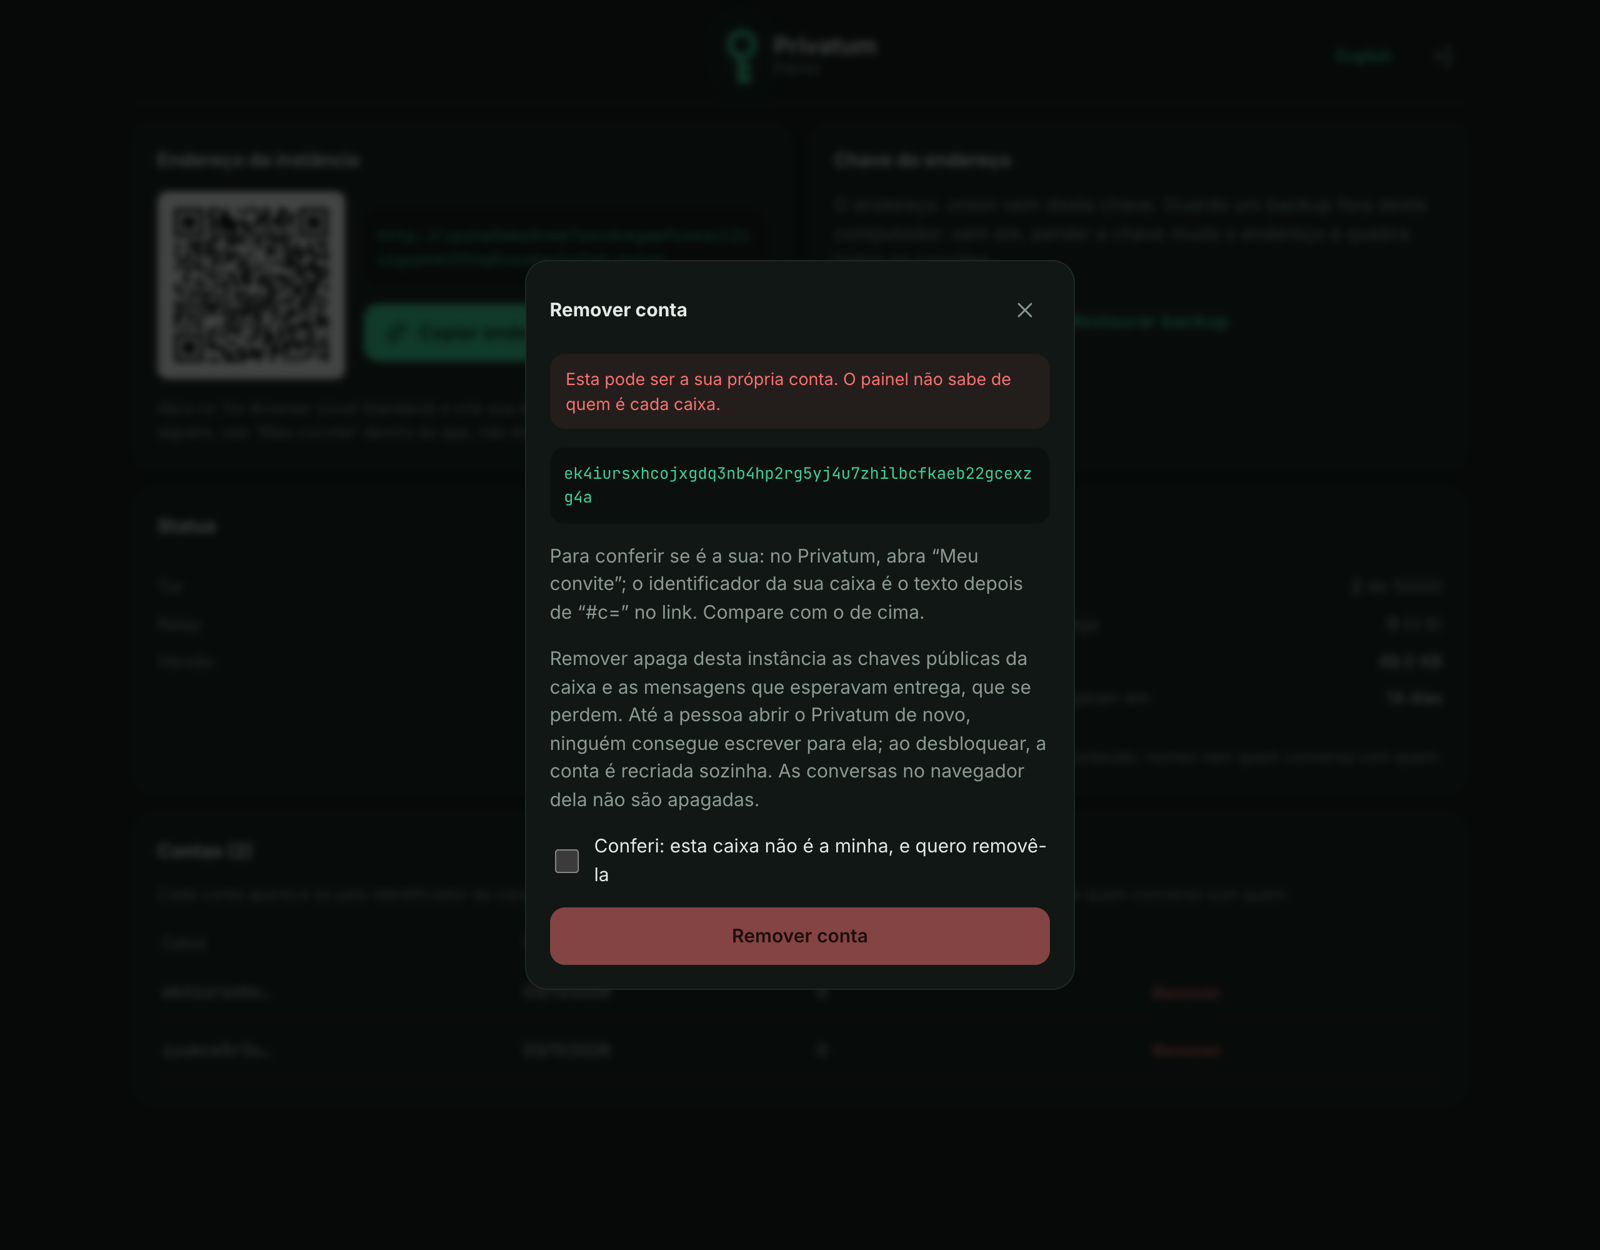
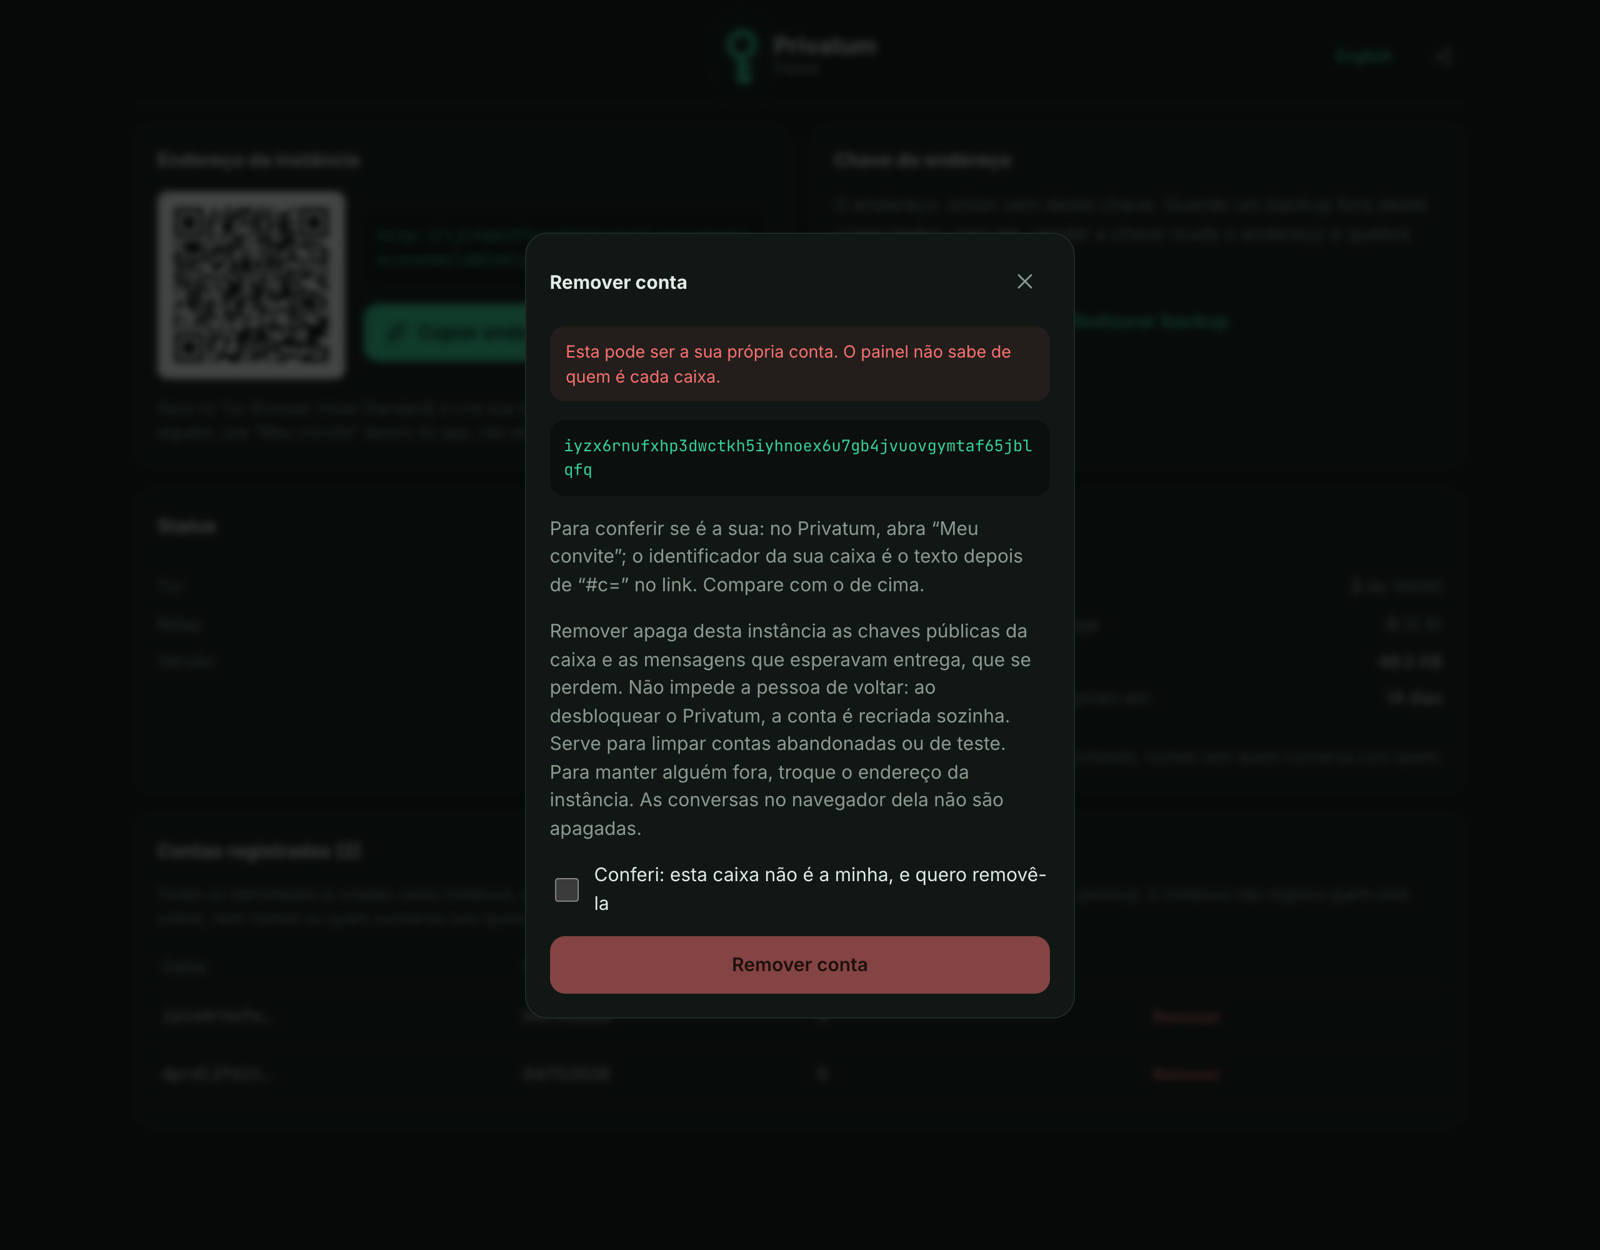
Painel: Contas registradas e aviso de que remover não barra ninguém
O quadro passa a se chamar Contas registradas e explica que mostra todas as
identidades já criadas, online ou não (a instância não registra quem está
online). A janela de remover deixa claro que a pessoa volta ao desbloquear o
Privatum e que, para manter alguém fora, o caminho é trocar o endereço.
Imagens e documentação atualizadas.

Changed region(s): [[0.3438, 0.2184, 0.6562, 0.8112]]

diff --git a/client/src/i18n-en.ts b/client/src/i18n-en.ts
@@ -253,8 +253,6 @@ export const EN: Record<string, string> = {
   'Para confirmar, digite TROCAR': 'To confirm, type TROCAR',
   'Trocando…': 'Changing…',
   'Apagar a chave e trocar o endereço': 'Delete the key and change the address',
-  'Contas ({n})': 'Accounts ({n})',
-  'Cada conta aparece só pelo identificador da caixa (o mesmo que vai no convite da pessoa). O painel não sabe nomes nem quem conversa com quem.': 'Each account shows only by its mailbox id (the same one in the person\'s invite). The panel knows no names nor who talks to whom.',
   'Caixa': 'Mailbox',
   'Criada': 'Created',
   'Aguardando': 'Waiting',
@@ -299,6 +297,8 @@ export const EN: Record<string, string> = {
   '{n} dias': '{n} days',
   'Esta pode ser a sua própria conta. O painel não sabe de quem é cada caixa.': 'This may be your own account. The panel does not know whose each mailbox is.',
   'Para conferir se é a sua: no Privatum, abra “Meu convite”; o identificador da sua caixa é o texto depois de “#c=” no link. Compare com o de cima.': 'To check whether it is yours: in Privatum, open “My invite”; your mailbox id is the text after “#c=” in the link. Compare it with the one above.',
-  'Remover apaga desta instância as chaves públicas da caixa e as mensagens que esperavam entrega, que se perdem. Até a pessoa abrir o Privatum de novo, ninguém consegue escrever para ela; ao desbloquear, a conta é recriada sozinha. As conversas no navegador dela não são apagadas.': 'Removing deletes the mailbox\'s public keys from this instance, and the messages awaiting delivery are lost. Until the person opens Privatum again nobody can write to them; when they unlock, the account is recreated on its own. The conversations in their browser are not erased.',
   'Conferi: esta caixa não é a minha, e quero removê-la': 'I checked: this mailbox is not mine, and I want to remove it',
+  'Contas registradas ({n})': 'Registered accounts ({n})',
+  'Todas as identidades já criadas nesta instância, online ou não, pelo identificador da caixa (o mesmo que vai no convite da pessoa). A instância não registra quem está online, nem nomes ou quem conversa com quem.': 'Every identity ever created on this instance, online or not, by mailbox id (the same one in the person\'s invite). The instance does not record who is online, nor names or who talks to whom.',
+  'Remover apaga desta instância as chaves públicas da caixa e as mensagens que esperavam entrega, que se perdem. Não impede a pessoa de voltar: ao desbloquear o Privatum, a conta é recriada sozinha. Serve para limpar contas abandonadas ou de teste. Para manter alguém fora, troque o endereço da instância. As conversas no navegador dela não são apagadas.': 'Removing deletes the mailbox\'s public keys from this instance, and the messages awaiting delivery are lost. It does not keep the person out: when they unlock Privatum, the account is recreated on its own. Use it to clean up abandoned or test accounts. To keep someone out, change the instance address. The conversations in their browser are not erased.',
 };

diff --git a/client/src/admin/Admin.tsx b/client/src/admin/Admin.tsx
@@ -518,9 +518,9 @@ function Accounts({ mailboxes, onChange }: { mailboxes: AccessData['mailboxes'];
     setSure(false);
   };
   return (
-    <Card title={t('Contas ({n})', { n: mailboxes.length })} wide>
+    <Card title={t('Contas registradas ({n})', { n: mailboxes.length })} wide>
       <p className="hint">
-        {t('Cada conta aparece só pelo identificador da caixa (o mesmo que vai no convite da pessoa). O painel não sabe nomes nem quem conversa com quem.')}
+        {t('Todas as identidades já criadas nesta instância, online ou não, pelo identificador da caixa (o mesmo que vai no convite da pessoa). A instância não registra quem está online, nem nomes ou quem conversa com quem.')}
       </p>
       {mailboxes.length > 0 && (
         <table className="table">
@@ -556,7 +556,7 @@ function Accounts({ mailboxes, onChange }: { mailboxes: AccessData['mailboxes'];
             {t('Para conferir se é a sua: no Privatum, abra “Meu convite”; o identificador da sua caixa é o texto depois de “#c=” no link. Compare com o de cima.')}
           </p>
           <p className="muted">
-            {t('Remover apaga desta instância as chaves públicas da caixa e as mensagens que esperavam entrega, que se perdem. Até a pessoa abrir o Privatum de novo, ninguém consegue escrever para ela; ao desbloquear, a conta é recriada sozinha. As conversas no navegador dela não são apagadas.')}
+            {t('Remover apaga desta instância as chaves públicas da caixa e as mensagens que esperavam entrega, que se perdem. Não impede a pessoa de voltar: ao desbloquear o Privatum, a conta é recriada sozinha. Serve para limpar contas abandonadas ou de teste. Para manter alguém fora, troque o endereço da instância. As conversas no navegador dela não são apagadas.')}
           </p>
           <label className="check">
             <input type="checkbox" checked={sure} onChange={(e) => setSure(e.target.checked)} />

diff --git a/docs/OPERATIONS.md b/docs/OPERATIONS.md
@@ -44,7 +44,7 @@ Qualquer programa rodando neste computador consegue abrir `127.0.0.1:8099`; a se
 
 Qualquer pessoa que tenha o endereço `.onion` pode criar uma identidade na instância (o limite é `PRIVATUM_MAX_MAILBOXES`). Para conversar, ela precisa do **Meu convite** de alguém, que leva o endereço da caixa dessa pessoa. O endereço é o que protege a instância: compartilhe só com quem você quer lá.
 
-**Contas** lista as caixas pelo identificador (o mesmo que vai no convite de cada pessoa), a data de criação e quantas mensagens aguardam entrega. **Remover** apaga a caixa, as chaves públicas dela e as mensagens pendentes; os contatos deixam de conseguir escrever para ela. As conversas no navegador da pessoa continuam lá, e a conta é recriada sozinha na próxima vez que ela desbloquear o Privatum. Como o painel não sabe de quem é cada caixa, a remoção pede que você confira antes que não é a sua (o identificador da sua caixa aparece no link do seu **Meu convite**, depois de `#c=`).
+**Contas registradas** lista todas as caixas já criadas, online ou não (a instância não registra quem está online), pelo identificador (o mesmo que vai no convite de cada pessoa), a data de criação e quantas mensagens aguardam entrega. **Remover** apaga a caixa, as chaves públicas dela e as mensagens pendentes; os contatos deixam de conseguir escrever para ela. As conversas no navegador da pessoa continuam lá, e a conta é recriada sozinha na próxima vez que ela desbloquear o Privatum: remover **não impede ninguém de voltar**. Para manter alguém fora da instância, troque o endereço `.onion` e passe o novo só a quem deve continuar. Como o painel não sabe de quem é cada caixa, a remoção pede que você confira antes que não é a sua (o identificador da sua caixa aparece no link do seu **Meu convite**, depois de `#c=`).
 
 ## Volumes
 

diff --git a/README.md b/README.md
@@ -125,7 +125,7 @@ O painel só abre **neste computador** (`127.0.0.1:8099`); pelo `.onion` ningué
 | **Chave do endereço** | **Baixar backup** cifrado da chave (guarde fora do computador), **Restaurar backup** e **Trocar endereço**. Na restauração, o painel confere se a chave corresponde ao endereço antes de gravar. |
 | **Status** | Se o Tor está conectado e o relay no ar, e a versão instalada. |
 | **Uso** | Pessoas registradas, mensagens aguardando entrega, tamanho do banco e prazo de expiração. |
-| **Contas** | As caixas registradas, pelo identificador. **Remover** apaga a caixa e as mensagens pendentes dela. |
+| **Contas registradas** | Todas as identidades já criadas na instância, online ou não, pelo identificador da caixa. A instância não registra quem está online. **Remover** apaga a caixa e as mensagens pendentes dela, mas **não impede a pessoa de voltar**: ao desbloquear o Privatum, a conta é recriada. Serve para limpar contas abandonadas ou de teste; para manter alguém fora, troque o endereço. |
 
 <table>
 <tr>
